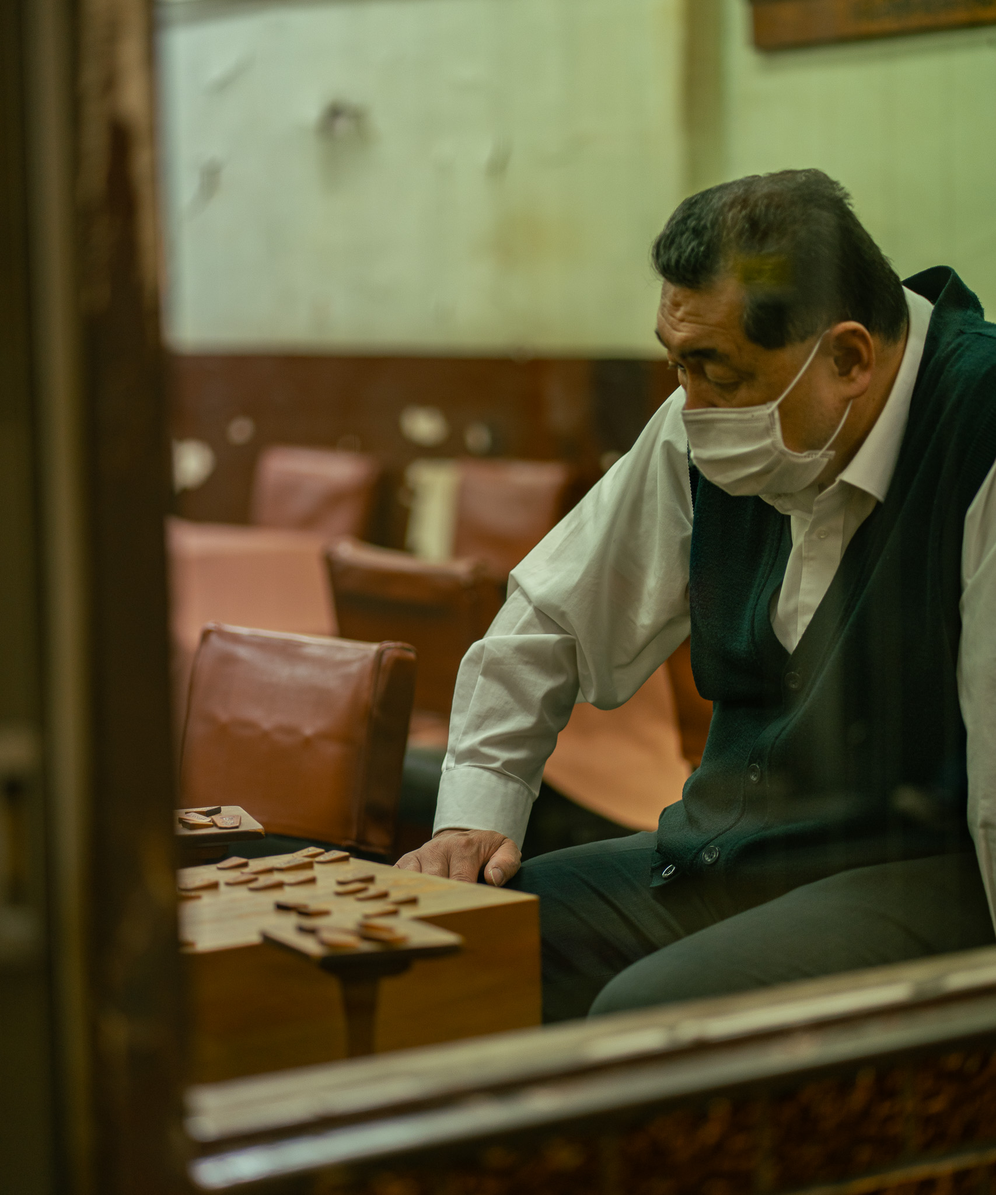
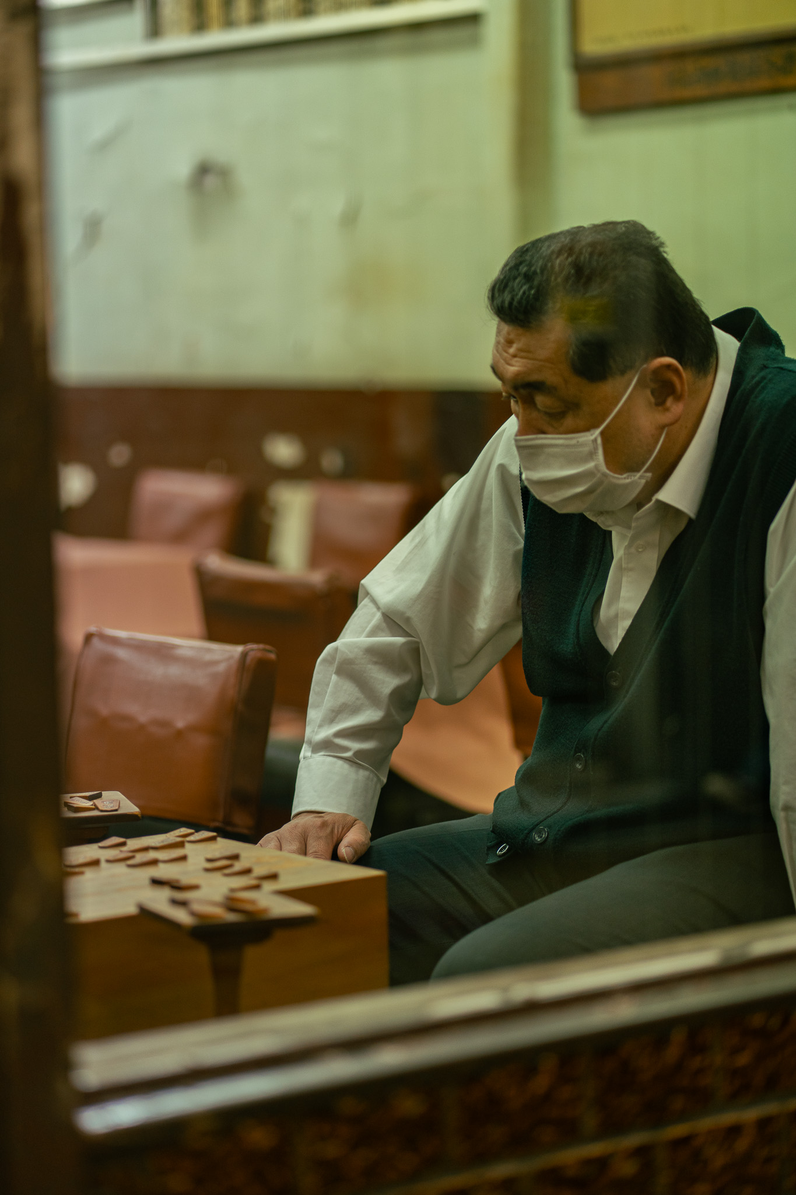
add save button and fix majong ratio image

diff --git a/src/app/app.component.ts b/src/app/app.component.ts
@@ -2,6 +2,8 @@ import { IMAGE_CONFIG } from '@angular/common';
 import { Component, signal } from '@angular/core';
 import { FormsModule } from '@angular/forms';
 import { MatRadioModule } from '@angular/material/radio';
+import FileSaver from 'file-saver';
+import html2canvas from 'html2canvas';
 
 
 @Component({
@@ -47,4 +49,17 @@ export class AppComponent {
     'pics/DSC05468.jpg',
     'pics/DSC05649.jpg'
   ];
+
+  saveImage() {
+    const image = document.querySelector("#to-save") as HTMLElement
+    html2canvas(image).then(canvas => {
+      canvas.toBlob(function (blob) {
+        if (blob) {
+          FileSaver.saveAs(blob, 'acoustica.jpg');
+        } else {
+          console.error('Canvas to Blob conversion failed');
+        }
+      });
+    });
+  }
 }

diff --git a/src/app/app.component.html b/src/app/app.component.html
@@ -1,9 +1,12 @@
-<img id="base" class="main" src="base.png" />
-<img id="first" class="main portrait" [src]="firstIndex" />
-<img id="second" class="main portrait" [src]="secondIndex" />
-<img id="third" class="main portrait" [src]="thirdIndex" />
+<div id="to-save">
+  <img id="base" class="main" src="base.png" />
+  <img id="first" class="main portrait" [src]="firstIndex" />
+  <img id="second" class="main portrait" [src]="secondIndex" />
+  <img id="third" class="main portrait" [src]="thirdIndex" />
+</div>
 
 <div id="selectors">
+  <button (click)="saveImage()">save image</button>
   <div class="radio-container">
     <label id="radio-1">Pick first portrait image</label>
     <mat-radio-group

diff --git a/src/app/app.component.scss b/src/app/app.component.scss
@@ -5,6 +5,11 @@ $width: 1500px;
   top: 0;
   left: 0;
 }
+#to-save {
+  position: absolute;
+  width: $width;
+  height: 1125px; // meh
+}
 
 #base {
   width: $width;
